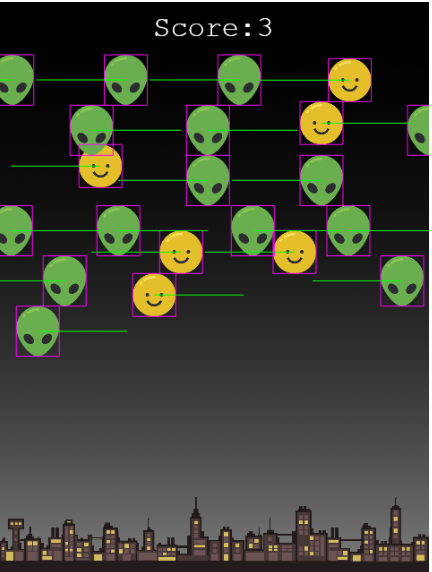
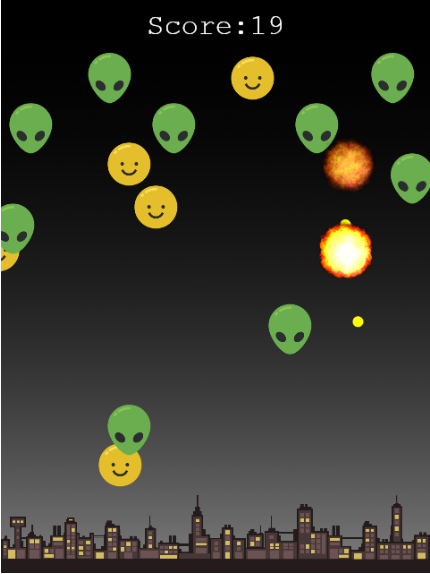
add screenshots

Changed region(s): [[0.0, 0.0, 1.0, 1.0], [0.2116, 0.6836, 0.3628, 0.8619], [0.8163, 0.535, 0.8465, 0.5944]]

diff --git a/js/main.js b/js/main.js
@@ -8,7 +8,7 @@
         physics: {
             default: 'arcade',
             arcade: {
-                debug: true
+                debug: false
             }
         }
     };
